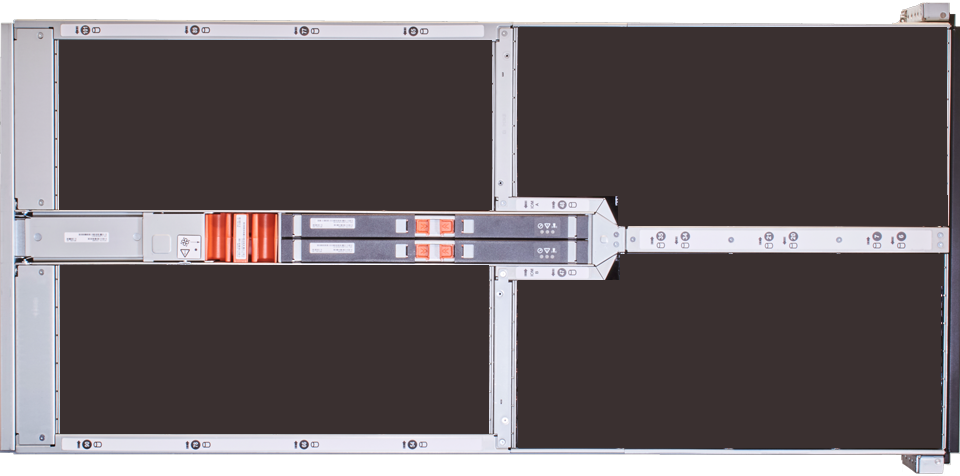
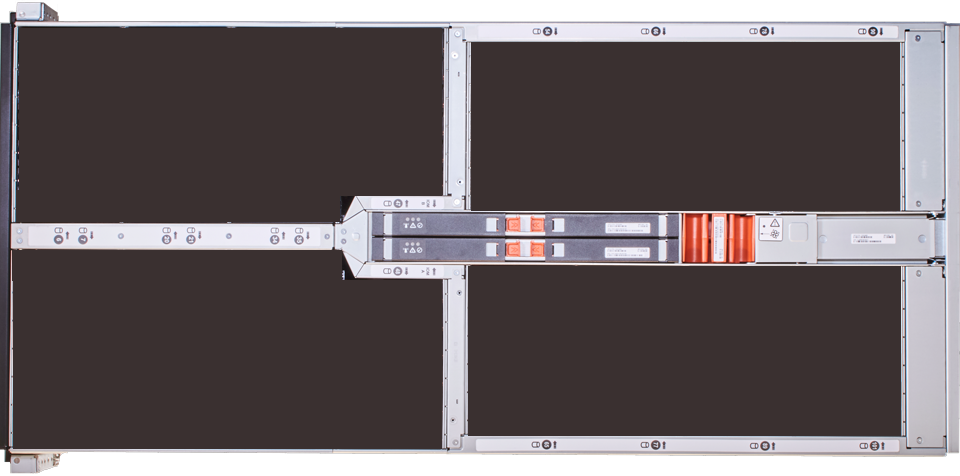
WIP: Stashing changes

diff --git a/src/app/core/classes/hardware/es102.ts b/src/app/core/classes/hardware/es102.ts
@@ -1,9 +1,9 @@
 import { Container, Texture, Sprite } from 'pixi.js';
 import { DriveTray } from './drivetray';
 import { Chassis } from './chassis';
-import { ChassisView, Position } from './chassis-view';
+import { ChassisView, Position, LayoutGenerator } from './chassis-view';
 
-export class ES102 extends Chassis {
+export class ES102 extends Chassis{
 
   constructor(){
     super();
@@ -11,27 +11,88 @@ export class ES102 extends Chassis {
 
     this.front = new ChassisView();
     this.front.container = new PIXI.Container();
-    this.front.chassisPath = "assets/images/hardware/e60/e60_960w.png";
-    this.front.driveTrayBackgroundPath = "assets/images/hardware/e60/e60_960w_drivetray_bg.png"; 
-    this.front.driveTrayHandlePath = "assets/images/hardware/e60/e60_960w_drivetray_handle.png";
-    this.front.totalDriveTrays = 96;
+    this.front.chassisPath = "assets/images/hardware/es102/es102_960w.png";
+    this.front.driveTrayBackgroundPath = "assets/images/hardware/es102/es102_960w_drivetray_bg.png"; 
+    this.front.driveTrayHandlePath = "assets/images/hardware/es102/es102_960w_drivetray_handle.png";
+
+    this.front.totalDriveTrays = 102;
     this.front.rows = 12;
     this.front.columns = 8;
+    this.front.orientation = "columns";
+
+    // Scale
+    this.front.chassisScale = {x: 1, y: 1};
+    this.front.driveTrays.scale.x = 1;
+    this.front.driveTrays.scale.y = 1;
+    
+    /*this.front.chassisScale = {x: 1, y: 1.05};
+    this.front.driveTrays.scale.x = 0.95;
+    this.front.driveTrays.scale.y = 0.65;*/
+    
+    // Offsets
+    this.front.driveTraysOffsetX = -20;
+    this.front.driveTraysOffsetY = -65;
+ 
+    this.front.layout = {
+      generatePosition: (displayObject, index, offsetX, offsetY, orientation) =>{
+        let gapX = 8;// was 16
+        let gapY = 16;
+
+        const cols = [
+          { start: 0, count: 14, iomGap: 10, iomIndex: 7, },
+          { start: 14, count: 14, iomGap: 10, iomIndex: 7, },
+          { start: 28, count: 14, iomGap: 10, iomIndex: 7, },
+          { start: 42, count: 12, iomGap: 30, iomIndex: 6, },
+          { start: 54, count: 12, iomGap: 20, iomIndex: 6, },
+          { start: 66, count: 12, iomGap: 20, iomIndex: 6, },
+          { start: 78, count: 12, iomGap: 20, iomIndex: 6, },
+          { start: 90, count: 12, iomGap: 20, iomIndex: 6, },
+        ]
+
+        const getCurrentColumn = () => {
+          const test = cols.map((c, ci) => { 
+            if(index >= c.start && index <= (c.start + c.count - 1)) return ci; 
+          });
+          return test.filter( v => v !== undefined)[0];
+        }
+
+        let currentColumn = getCurrentColumn();
+        let col = cols[currentColumn];
+
+        let mod = (index) % col.count; //this.front[orientation];
+        const iomGapX = currentColumn > 4 ? 44 : 0;
+        const iomGapY = index - col.start >= col.iomIndex ? col.iomGap : 0;
+
+        //let nextPositionX = Math.floor(index / this.front[orientation]) * (displayObject.width + gapX);
+        //let nextPositionY = mod * (displayObject.height + gapY);
+    
+        let nextPositionX =  (displayObject.width + gapX) * currentColumn + iomGapX;
+        let nextPositionY = mod * (displayObject.height + gapY + iomGapY);
+    
+        return {x: nextPositionX + offsetX, y: nextPositionY + offsetY};
+      }
+    }
   }
 
   /*isBelowModules(index): boolean{
     return index > 5;
-  }
+  }*/
 
-  generatePosition(displayObject, index): Position{
+  /*generatePosition(displayObject, index): Position{
+    console.log("ES102: GENERATING POSITION");
     let gapX = 8;// was 16
-      let gapY = 6;
-    let mod = index % this.rows;
+    let gapY = 6;
+    let mod = index % this.front[this.front.orientation];
+    let m = index % 2;
+    if(m == 0){ 
+      console.log("even");
+      this.front.colorDriveTray(index, "#CC00CC");
+    }
 
-    let nextPositionX = Math.floor(index / this.rows) * (displayObject.width + gapX);
+    let nextPositionX = Math.floor(index / this.front[this.front.orientation]) * (displayObject.width + gapX);
     let nextPositionY = mod * (displayObject.height + gapY);
 
-    return {x: nextPositionX, y: this.isBelowModules(mod) ? nextPositionY + displayObject.height : nextPositionY }
+    return {x: nextPositionX, y: nextPositionY};
   }*/
 
   generatePerspectiveOffset(){

diff --git a/src/app/core/classes/hardware/chassis-view.ts b/src/app/core/classes/hardware/chassis-view.ts
@@ -37,6 +37,10 @@ import {
     y?: number;
   }
 
+  export interface LayoutGenerator {
+    generatePosition: (displayObject, index, xOffset?: number, yOffset?: number, orientation?: string) => Position;
+  }
+
   export class ChassisView {
 
     /*
@@ -67,6 +71,8 @@ import {
      public slotRange: Range;
      public rows: number;
      public columns: number;
+     public orientation: string = "rows"; // 'rows' || 'columns'
+     public layout?: LayoutGenerator;
      public vertical: boolean = false;
      public filters: any[] = [];
      public disabledOpacity = 0.25;
@@ -284,6 +290,10 @@ import {
      }
 
      generatePosition(displayObject, index, xOffset: number = 0, yOffset: number = 0): Position{
+       if(this.layout){
+         return this.layout.generatePosition(displayObject, index, xOffset, yOffset, this.orientation);
+       }
+
        //let gapX = 10;
        //let gapY = 2;
        let mod = index % this.columns;
